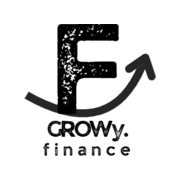
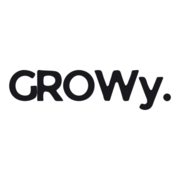
chore: rename asset files for consistency
Standardized asset filenames by removing the "finance" suffix to align with the rebranding and simplify resource management.

Changed region(s): [[0.0278, 0.1111, 0.9722, 0.8889], [0.6667, 0.8056, 0.7222, 0.8889], [0.2222, 0.7778, 0.2778, 0.8611]]

diff --git a/index.html b/index.html
@@ -15,11 +15,11 @@
     <meta property="og:url" content="https://growychile.cl/" />
     <meta property="og:title" content="GROWy. — El puente entre tu idea y tu pyme | Equilibrio" />
     <meta property="og:description" content="La creatividad sueña, los números la sostienen. Potencia tu pyme con Equilibrio: punto de equilibrio y finanzas claras desde $5.990/mes." />
-    <meta property="og:image" content="https://growychile.cl/growy-finance-icon-512.png" />
+    <meta property="og:image" content="https://growychile.cl/growy-icon-512.png" />
     <meta name="twitter:card" content="summary_large_image" />
     <meta name="twitter:title" content="GROWy. — El puente entre tu idea y tu pyme | Equilibrio" />
     <meta name="twitter:description" content="La creatividad sueña, los números la sostienen. Potencia tu pyme con Equilibrio: punto de equilibrio y finanzas claras desde $5.990/mes." />
-    <meta name="twitter:image" content="https://growychile.cl/growy-finance-icon-512.png" />
+    <meta name="twitter:image" content="https://growychile.cl/growy-icon-512.png" />
     <script type="application/ld+json">
       {
         "@context": "https://schema.org",
@@ -29,7 +29,7 @@
             "name": "GROWy.",
             "alternateName": ["Growy", "Growy Chile"],
             "url": "https://growychile.cl/",
-            "logo": "https://growychile.cl/growy-finance-icon-512.png",
+            "logo": "https://growychile.cl/growy-icon-512.png",
             "email": "jose.growy@gmail.com",
             "founder": {
               "@type": "Person",
@@ -68,13 +68,14 @@
     <meta name="apple-mobile-web-app-capable" content="yes" />
     <meta name="apple-mobile-web-app-status-bar-style" content="default" />
     <meta name="apple-mobile-web-app-title" content="Growy" />
-    <link rel="apple-touch-icon" sizes="180x180" href="/growy-finance-apple-180.png" />
-    <link rel="apple-touch-icon" href="/growy-finance-apple-180.png" />
-    <link rel="apple-touch-icon-precomposed" sizes="180x180" href="/growy-finance-apple-180.png" />
-    <link rel="icon" type="image/png" sizes="32x32" href="/growy-finance-icon-32.png" />
-    <link rel="icon" type="image/png" sizes="192x192" href="/growy-finance-icon-192.png" />
-    <link rel="icon" type="image/png" sizes="512x512" href="/growy-finance-icon-512.png" />
-    <link rel="shortcut icon" href="/growy-finance-favicon.ico" />
+    <link rel="apple-touch-icon" sizes="180x180" href="/growy-apple-touch-icon-180.png?v=2" />
+    <link rel="apple-touch-icon" href="/growy-apple-touch-icon-180.png?v=2" />
+    <link rel="apple-touch-icon-precomposed" sizes="180x180" href="/growy-apple-touch-icon-180.png?v=2" />
+    <link rel="icon" type="image/png" sizes="32x32" href="/growy-icon-32.png?v=2" />
+    <link rel="icon" type="image/png" sizes="192x192" href="/growy-icon-192.png?v=2" />
+    <link rel="icon" type="image/png" sizes="512x512" href="/growy-icon-512.png?v=2" />
+    <link rel="icon" href="/growy-favicon.ico?v=2" sizes="any" />
+    <link rel="shortcut icon" href="/growy-favicon.ico?v=2" />
     <link rel="preconnect" href="https://fonts.googleapis.com" />
     <link rel="preconnect" href="https://fonts.gstatic.com" crossorigin />
     <link href="https://fonts.googleapis.com/css2?family=DM+Sans:ital,opsz,wght@0,9..40,400;0,9..40,500;0,9..40,600;0,9..40,700;1,9..40,400&family=Fraunces:ital,opsz,wght@1,9..144,500;1,9..144,600;1,9..144,700&family=IBM+Plex+Mono:wght@400;500;600&display=swap" rel="stylesheet" />

diff --git a/vite.config.ts b/vite.config.ts
@@ -15,12 +15,12 @@ export default defineConfig(() => {
         filename: 'sw.ts',
         registerType: 'autoUpdate',
         includeAssets: [
-          'growy-finance-favicon.ico',
-          'growy-finance-apple-180.png',
-          'growy-finance-icon-32.png',
-          'growy-finance-icon-192.png',
-          'growy-finance-icon-512.png',
-          'growy-finance-icon-maskable-512.png',
+          'growy-favicon.ico',
+          'growy-apple-touch-icon-180.png',
+          'growy-icon-32.png',
+          'growy-icon-192.png',
+          'growy-icon-512.png',
+          'growy-icon-maskable-512.png',
           'favicon.ico',
           'apple-touch-icon.png',
         ],
@@ -39,19 +39,19 @@ export default defineConfig(() => {
           lang: 'es',
           icons: [
             {
-              src: '/growy-finance-icon-192.png',
+              src: '/growy-icon-192.png',
               sizes: '192x192',
               type: 'image/png',
               purpose: 'any',
             },
             {
-              src: '/growy-finance-icon-512.png',
+              src: '/growy-icon-512.png',
               sizes: '512x512',
               type: 'image/png',
               purpose: 'any',
             },
             {
-              src: '/growy-finance-icon-maskable-512.png',
+              src: '/growy-icon-maskable-512.png',
               sizes: '512x512',
               type: 'image/png',
               purpose: 'maskable',

diff --git a/src/hooks/usePushNotifications.ts b/src/hooks/usePushNotifications.ts
@@ -181,8 +181,8 @@ export function usePushNotifications(profile: UserProfile | null): PushNotificat
               if (payload) {
                 await reg.showNotification(payload.title, {
                   body: payload.body,
-                  icon: '/growy-finance-icon-192.png',
-                  badge: '/growy-finance-icon-192.png',
+                  icon: '/growy-icon-192.png',
+                  badge: '/growy-icon-192.png',
                   tag: payload.tag,
                   requireInteraction: payload.requireInteraction,
                   data: { url: payload.url },
@@ -354,8 +354,8 @@ export function usePushNotifications(profile: UserProfile | null): PushNotificat
         const reg = await navigator.serviceWorker.ready;
         await reg.showNotification('GROWy · Prueba de recordatorio', {
           body: 'Así te avisaremos antes de tu vencimiento para que tu cuenta nunca quede bloqueada.',
-          icon: '/growy-finance-icon-192.png',
-          badge: '/growy-finance-icon-192.png',
+          icon: '/growy-icon-192.png',
+          badge: '/growy-icon-192.png',
           tag: 'growy-test-local',
           data: { url: '/?reminder=payment' },
         });

diff --git a/src/sw.ts b/src/sw.ts
@@ -96,8 +96,8 @@ self.addEventListener('push', (event: PushEvent) => {
   event.waitUntil(
     self.registration.showNotification(title, {
       body,
-      icon: '/growy-finance-icon-192.png',
-      badge: '/growy-finance-icon-192.png',
+      icon: '/growy-icon-192.png',
+      badge: '/growy-icon-192.png',
       tag,
       requireInteraction: Boolean(parsed.requireInteraction),
       data: { url: targetUrl },
